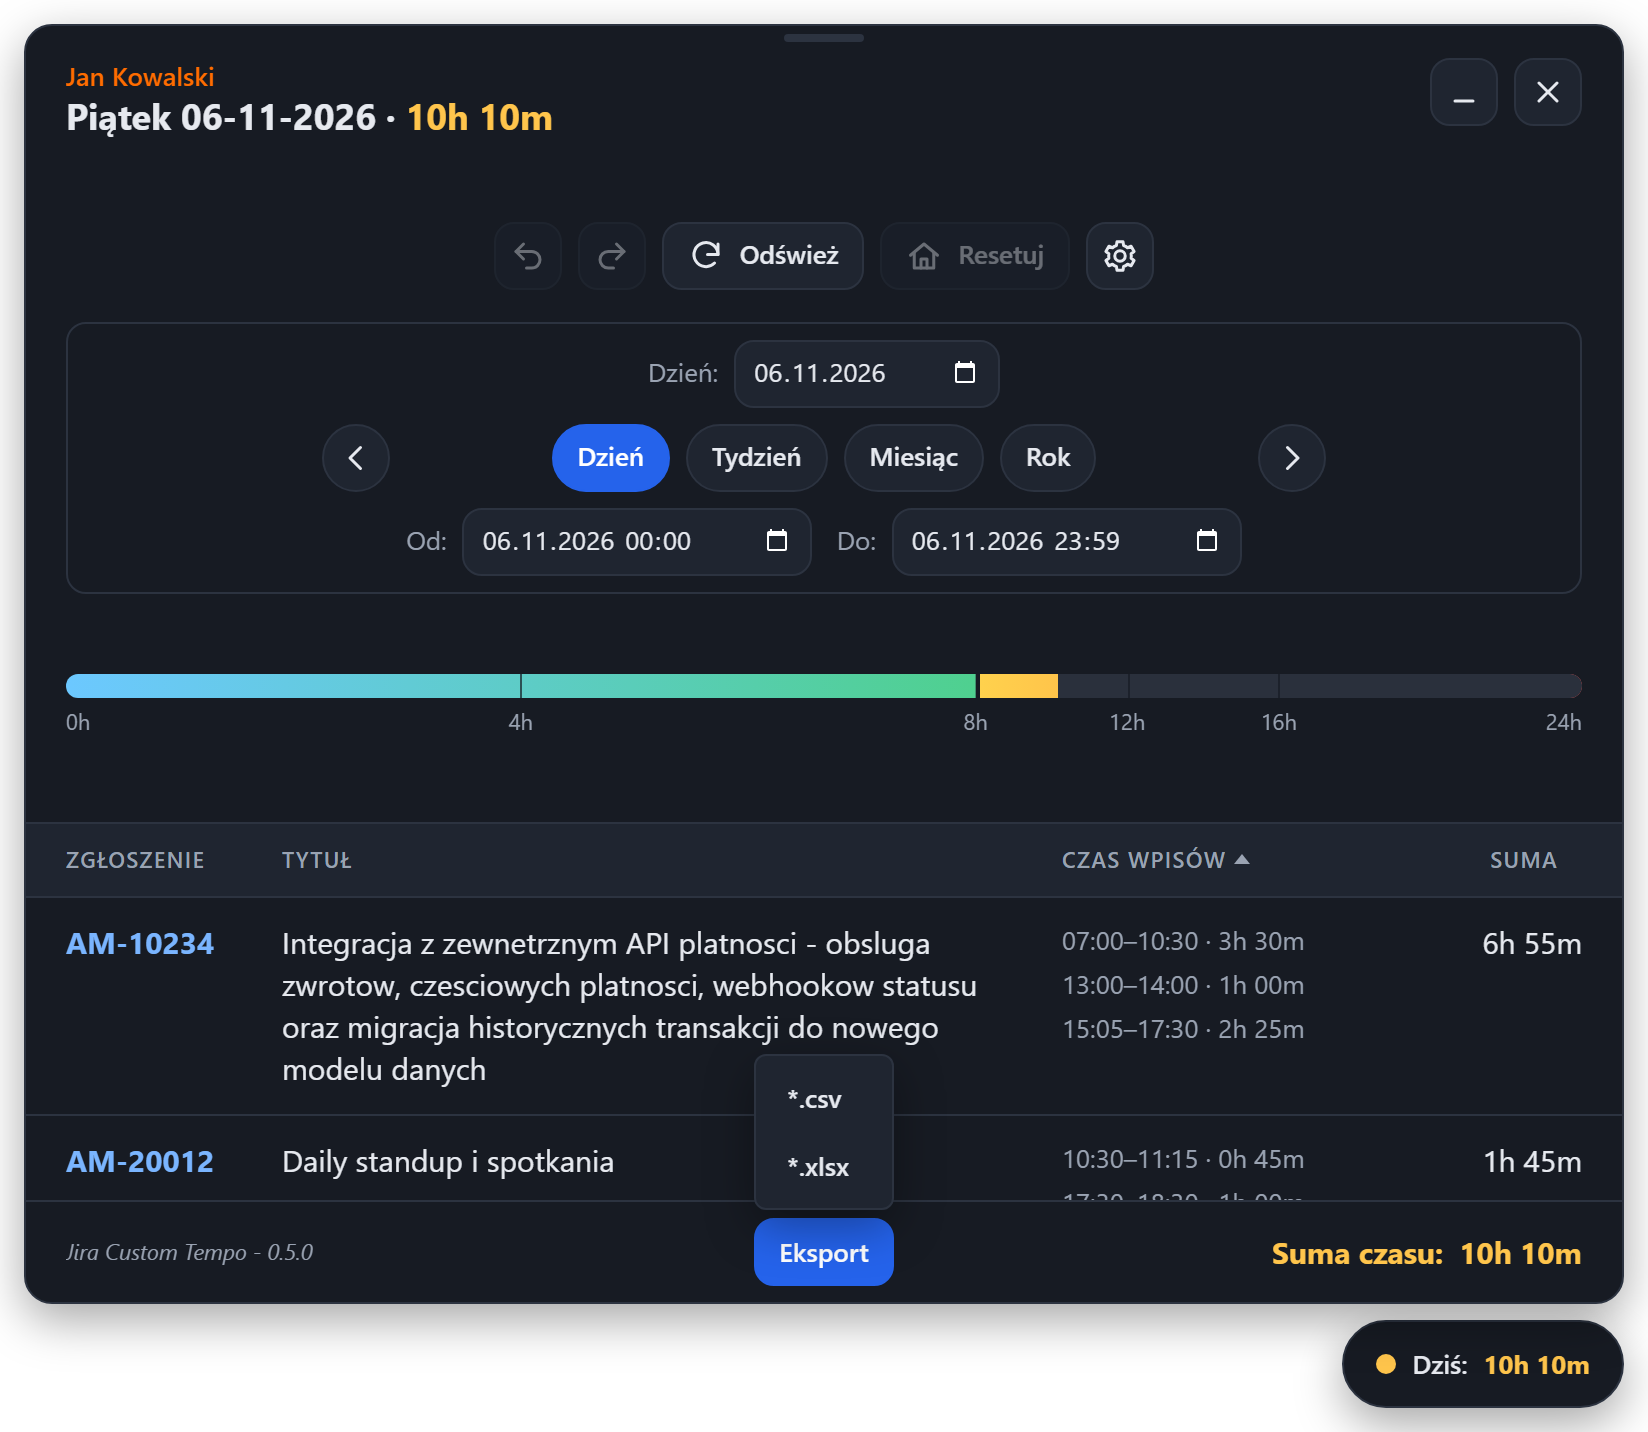
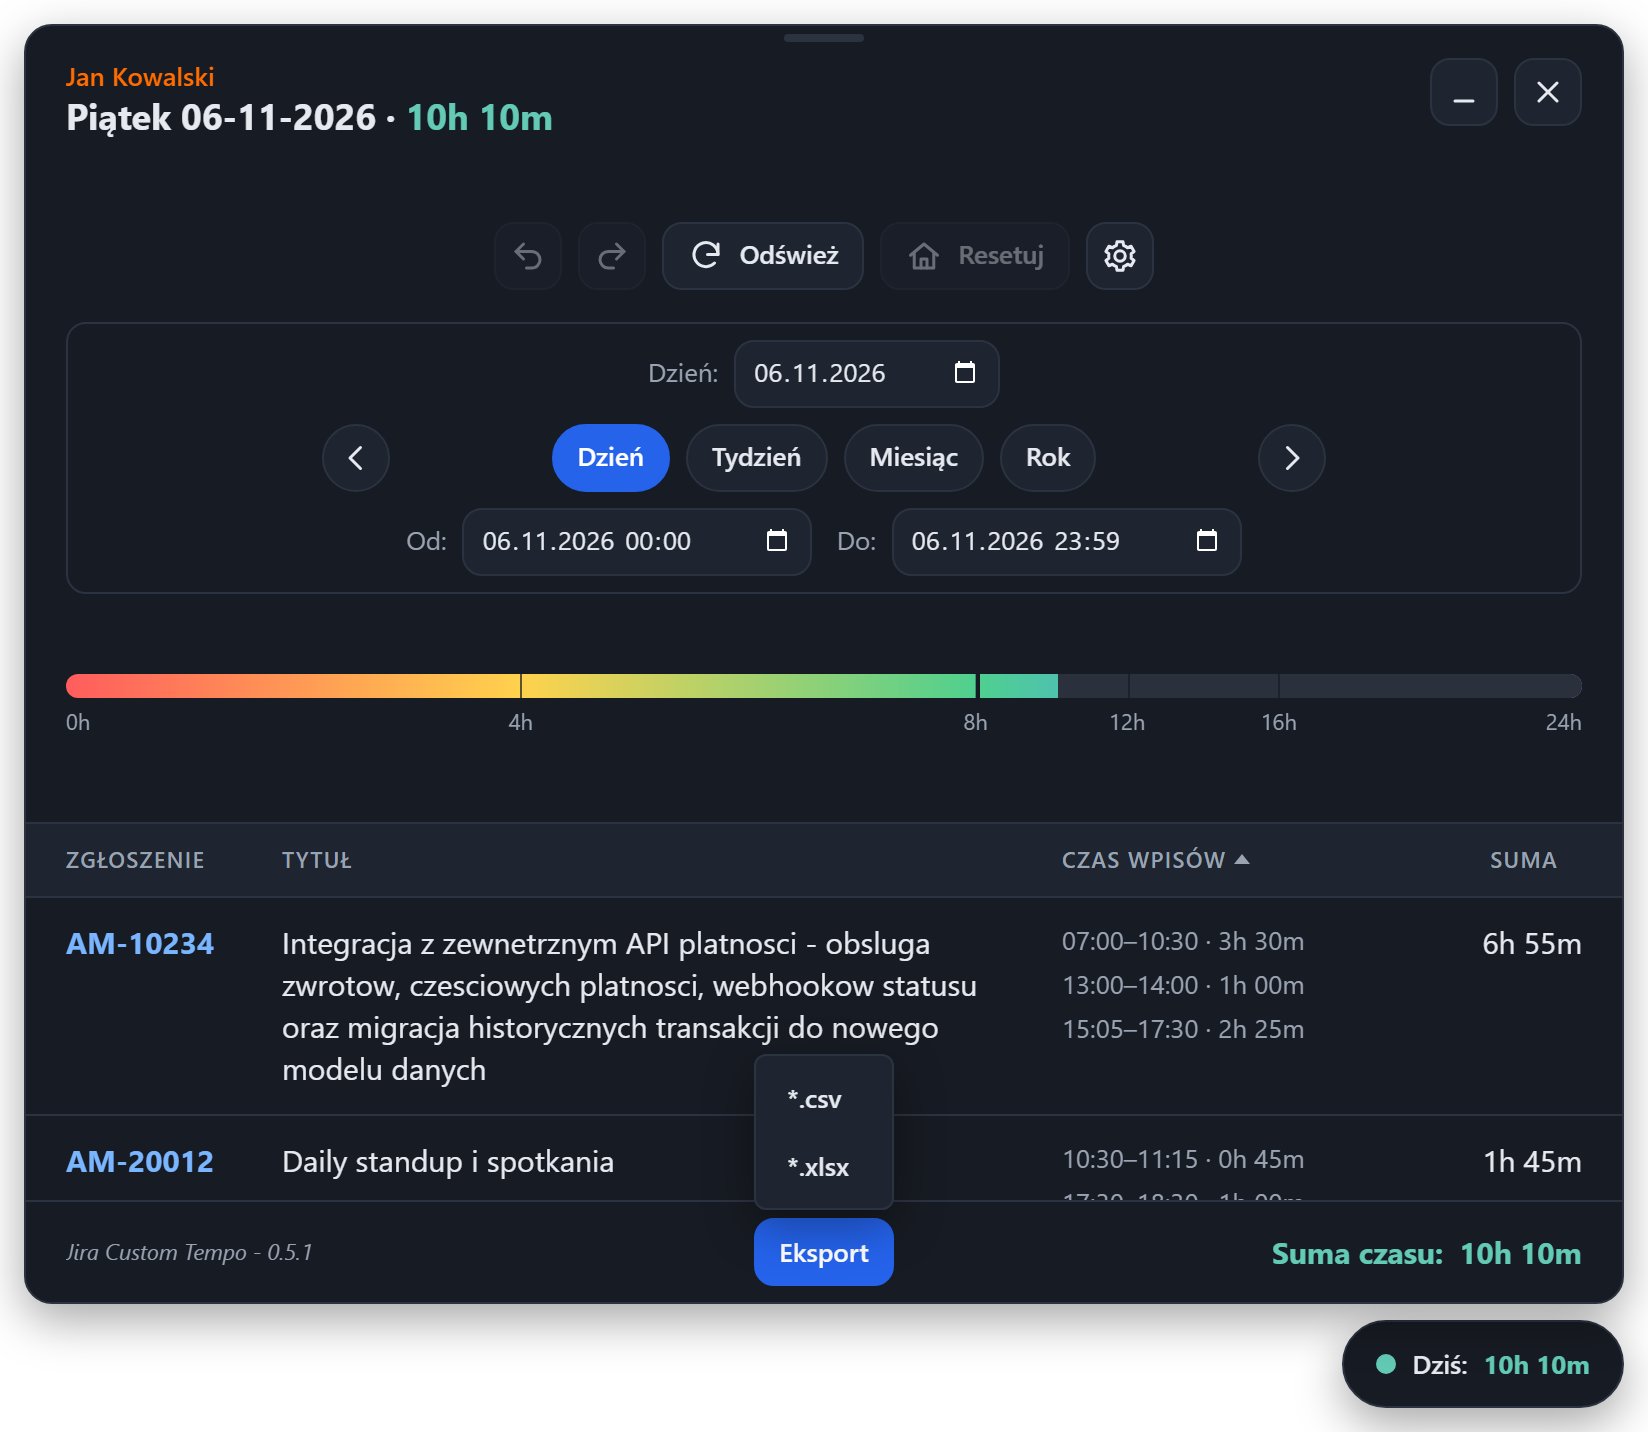
progress-colours

diff --git a/tests/unit/summary.test.ts b/tests/unit/summary.test.ts
@@ -1,3 +1,5 @@
+import { readFileSync } from 'node:fs';
+import { resolve } from 'node:path';
 import { describe, expect, it } from 'vite-plus/test';
 import { presetPeriod } from '../../src/domain/period';
 import { summarise } from '../../src/domain/summary';
@@ -27,27 +29,51 @@ describe('summarise for a single day', () => {
     expect(summary.colour).toBeNull();
   });
 
-  it('mixes light blue into light green up to the norm', () => {
-    expect(summarise(rows(4 * H), today).colour).toEqual({ from: 'blue', to: 'green', ratio: 0.5 });
+  it('runs red, yellow, green up to the norm', () => {
+    expect(summarise(rows(60), today).colour).toMatchObject({ from: 'red', to: 'yellow' });
+    expect(summarise(rows(2 * H), today).colour).toEqual({ from: 'red', to: 'yellow', ratio: 0.5 });
+    expect(summarise(rows(4 * H), today).colour).toEqual({ from: 'red', to: 'yellow', ratio: 1 });
+    expect(summarise(rows(6 * H), today).colour).toEqual({ from: 'yellow', to: 'green', ratio: 0.5 });
     const atNorm = summarise(rows(8 * H), today);
-    expect(atNorm.colour).toEqual({ from: 'blue', to: 'green', ratio: 1 });
+    expect(atNorm.colour).toEqual({ from: 'yellow', to: 'green', ratio: 1 });
     expect(atNorm.normReached).toBe(true);
     expect(atNorm.fillFraction).toBeCloseTo(1 / 3);
   });
 
-  it('runs yellow, orange, red above the norm', () => {
-    expect(summarise(rows(8 * H + 60), today).colour).toMatchObject({ from: 'yellow', to: 'orange' });
-    expect(summarise(rows(12 * H), today).colour).toEqual({ from: 'yellow', to: 'orange', ratio: 0.5 });
-    expect(summarise(rows(16 * H), today).colour).toEqual({ from: 'yellow', to: 'orange', ratio: 1 });
-    expect(summarise(rows(20 * H), today).colour).toEqual({ from: 'orange', to: 'red', ratio: 0.5 });
-    expect(summarise(rows(24 * H), today).colour).toEqual({ from: 'orange', to: 'red', ratio: 1 });
+  it('runs on from green through blue to violet above the norm', () => {
+    expect(summarise(rows(8 * H + 60), today).colour).toMatchObject({ from: 'green', to: 'blue' });
+    expect(summarise(rows(12 * H), today).colour).toEqual({ from: 'green', to: 'blue', ratio: 0.5 });
+    expect(summarise(rows(16 * H), today).colour).toEqual({ from: 'green', to: 'blue', ratio: 1 });
+    expect(summarise(rows(20 * H), today).colour).toEqual({ from: 'blue', to: 'violet', ratio: 0.5 });
+    expect(summarise(rows(24 * H), today).colour).toEqual({ from: 'blue', to: 'violet', ratio: 1 });
   });
 
-  it('stays red with a full bar above 24 hours', () => {
+  it('stays violet with a full bar above 24 hours', () => {
     const summary = summarise(rows(26 * H), today);
-    expect(summary.colour).toEqual({ from: 'red', to: 'red', ratio: 1 });
+    expect(summary.colour).toEqual({ from: 'violet', to: 'violet', ratio: 1 });
     expect(summary.fillFraction).toBe(1);
     expect(summary.totalSeconds).toBe(26 * H);
+  });
+});
+
+describe('the progress bar and the totals', () => {
+  // The bar is painted by the stylesheet; its stops must be the tones of colourFor (FR-018).
+  const styles = readFileSync(resolve(__dirname, '..', '..', 'src', 'styles', 'app.scss'), 'utf8');
+  const gradients = [...styles.matchAll(/linear-gradient\(90deg, ([^)]*\)[^)]*\)[^)]*\))\)/g)].map((match) =>
+    [...(match[1] ?? '').matchAll(/--wt-progress-(\w+)/g)].map((stop) => stop[1]),
+  );
+
+  it('share the stops: red, yellow (4h), green (8h), then blue (16h) and violet (24h)', () => {
+    expect(gradients).toContainEqual(['red', 'yellow', 'green']);
+    expect(gradients).toContainEqual(['green', 'blue', 'violet']);
+    for (const [hours, tone] of [
+      [4, 'yellow'],
+      [8, 'green'],
+      [16, 'blue'],
+      [24, 'violet'],
+    ] as const) {
+      expect(summarise(rows(hours * H), today).colour, `${hours}h`).toMatchObject({ to: tone, ratio: 1 });
+    }
   });
 });
 

diff --git a/tests/unit/export-palette.test.ts b/tests/unit/export-palette.test.ts
@@ -43,7 +43,7 @@ const summary = (totalSeconds: number, colour: PeriodSummary['colour']): PeriodS
   colour,
 });
 
-const TONES: ProgressTone[] = ['blue', 'green', 'yellow', 'orange', 'red'];
+const TONES: ProgressTone[] = ['red', 'yellow', 'green', 'blue', 'violet'];
 
 describe('palette of the sheet', () => {
   it('equals the tokens of the light appearance', () => {
@@ -73,10 +73,10 @@ describe('palette of the sheet', () => {
     expect(totalColour(summary(0, null))).toBe(PALETTE.muted);
     // A period longer than one day.
     expect(totalColour(summary(3600, null))).toBe(PALETTE.text);
-    expect(totalColour(summary(60, { from: 'blue', to: 'green', ratio: 0 }))).toBe(PALETTE.tones.blue);
-    expect(totalColour(summary(8 * 3600, { from: 'blue', to: 'green', ratio: 1 }))).toBe(PALETTE.tones.green);
-    expect(totalColour(summary(12 * 3600, { from: 'yellow', to: 'orange', ratio: 0.5 }))).toBe(
-      mix(PALETTE.tones.yellow, PALETTE.tones.orange, 0.5),
+    expect(totalColour(summary(60, { from: 'red', to: 'yellow', ratio: 0 }))).toBe(PALETTE.tones.red);
+    expect(totalColour(summary(8 * 3600, { from: 'yellow', to: 'green', ratio: 1 }))).toBe(PALETTE.tones.green);
+    expect(totalColour(summary(12 * 3600, { from: 'green', to: 'blue', ratio: 0.5 }))).toBe(
+      mix(PALETTE.tones.green, PALETTE.tones.blue, 0.5),
     );
   });
 
@@ -92,11 +92,12 @@ describe('palette of the sheet', () => {
       expect(contrast(colour, white), colour).toBeGreaterThanOrEqual(4.5);
     }
     expect(contrast(PALETTE.headerText, PALETTE.headerFill)).toBeGreaterThanOrEqual(4.5);
-    // The mixes a total can take: blue to green, yellow to orange, orange to red.
+    // The mixes a total can take: red to yellow, yellow to green, green to blue, blue to violet.
     for (const [from, to] of [
-      ['blue', 'green'],
-      ['yellow', 'orange'],
-      ['orange', 'red'],
+      ['red', 'yellow'],
+      ['yellow', 'green'],
+      ['green', 'blue'],
+      ['blue', 'violet'],
     ] as const) {
       for (const ratio of [0, 0.25, 0.5, 0.75, 1]) {
         const colour = mix(PALETTE.tones[from], PALETTE.tones[to], ratio);

diff --git a/tests/ui/app.test.ts b/tests/ui/app.test.ts
@@ -92,8 +92,8 @@ describe('launcher', () => {
   it("shows today's total in the colour of the progress bar, with the panel closed", async () => {
     const { app } = await mount(new FakeGateway(todayRoutes()));
     expect(launcher(app.root).textContent).toBe('Dziś: 10h 10m');
-    expect(launcher(app.root).style.getPropertyValue('--wt-total-from')).toBe('var(--wt-tone-yellow)');
-    expect(launcher(app.root).style.getPropertyValue('--wt-total-to')).toBe('var(--wt-tone-orange)');
+    expect(launcher(app.root).style.getPropertyValue('--wt-total-from')).toBe('var(--wt-tone-green)');
+    expect(launcher(app.root).style.getPropertyValue('--wt-total-to')).toBe('var(--wt-tone-blue)');
     expect(panel(app.root).hidden).toBe(true);
     expect(app.isOpen()).toBe(false);
     expect(launcher(app.root).getAttribute('aria-expanded')).toBe('false');
@@ -180,7 +180,7 @@ describe('opening the panel', () => {
   it('gives both totals the colour of the bar', async () => {
     const { root } = await mountOpen(new FakeGateway(todayRoutes()));
     const [title, footer] = [...root.querySelectorAll<HTMLElement>('.wt-panel .wt-total')];
-    expect(title?.style.getPropertyValue('--wt-total-from')).toBe('var(--wt-tone-yellow)');
+    expect(title?.style.getPropertyValue('--wt-total-from')).toBe('var(--wt-tone-green)');
     expect(footer?.style.cssText).toBe(title?.style.cssText);
     expect(root.querySelector('.wt-progress__caption')).toBeNull();
     expect(root.querySelector('.wt-subtitle')).toBeNull();
@@ -565,7 +565,7 @@ describe('changing the period', () => {
     expect(text(root, '.wt-progress__tip-period')).toBe('Piątek 06-11-2026');
     expect(text(root, '.wt-progress__tip-total')).toBe('Suma czasu: 10h 10m');
     const total = root.querySelector<HTMLElement>('.wt-progress__tip-total') as HTMLElement;
-    expect(total.style.getPropertyValue('--wt-total-from')).toBe('var(--wt-tone-yellow)');
+    expect(total.style.getPropertyValue('--wt-total-from')).toBe('var(--wt-tone-green)');
   });
 
   it('ignores the late answer of a period the user has already left', async () => {

diff --git a/tests/unit/export-xlsx.test.ts b/tests/unit/export-xlsx.test.ts
@@ -32,7 +32,7 @@ function report(rows: ReportRow[] = ROWS, extra: Partial<Report> = {}): Report {
     period: 'Piątek 13-11-2026',
     total: '6h 55m',
     totalMinutes: 415,
-    totalColour: mix(PALETTE.tones.blue, PALETTE.tones.green, 415 / 480),
+    totalColour: mix(PALETTE.tones.yellow, PALETTE.tones.green, 350 / 480),
     rows,
     fileBase: 'Jozef_Sliwinski_13-11-2026_tempo_report',
     ...extra,
@@ -254,7 +254,7 @@ describe('xlsx: the cells', () => {
 describe('xlsx: the look', () => {
   it('uses one font, with the sizes and colours of the three title rows', () => {
     const { look } = open();
-    const total = mix(PALETTE.tones.blue, PALETTE.tones.green, 415 / 480);
+    const total = mix(PALETTE.tones.yellow, PALETTE.tones.green, 350 / 480);
     expect(look('A1')).toMatchObject({ fontName: 'Calibri', size: 14, bold: true, colour: ARGB(PALETTE.name) });
     expect(look('A2')).toMatchObject({ fontName: 'Calibri', size: 12, bold: true, colour: ARGB(PALETTE.text) });
     expect(look('A3')).toMatchObject({ fontName: 'Calibri', size: 12, bold: true, colour: ARGB(total) });
@@ -293,7 +293,7 @@ describe('xlsx: the look', () => {
 
   it('gives the total row bold text in the colour of the total, at the right', () => {
     const { look } = open();
-    const total = ARGB(mix(PALETTE.tones.blue, PALETTE.tones.green, 415 / 480));
+    const total = ARGB(mix(PALETTE.tones.yellow, PALETTE.tones.green, 350 / 480));
     expect(look('C9')).toMatchObject({ bold: true, colour: total, horizontal: 'right' });
     expect(look('D9')).toMatchObject({ bold: true, colour: total, horizontal: 'right' });
     expect(open(report(ROWS, { totalColour: PALETTE.text })).look('D9').colour).toBe(ARGB(PALETTE.text));

diff --git a/src/domain/summary.ts b/src/domain/summary.ts
@@ -5,7 +5,7 @@ import { totalOf, type TicketRow } from './worklog';
 export const NORM_SECONDS = 8 * 3600;
 export const MAX_SECONDS = 24 * 3600;
 
-export type ProgressTone = 'blue' | 'green' | 'yellow' | 'orange' | 'red';
+export type ProgressTone = 'red' | 'yellow' | 'green' | 'blue' | 'violet';
 
 /**
  * A colour described as a mix of two named tones, so that the stylesheet (and the
@@ -30,14 +30,19 @@ export interface PeriodSummary {
   colour: ToneMix | null;
 }
 
-/** Light blue to light green up to the norm, then yellow through orange to red (FR-016, FR-017). */
+/**
+ * Red through yellow (at 4h) to green up to the norm, then green through blue (at 16h) to
+ * violet at 24h, and violet above (FR-016, FR-017). The stops match the progress bar's
+ * gradients, so a total has the colour of the bar at its value (FR-018).
+ */
 export function colourFor(totalSeconds: number): ToneMix | null {
   const r = totalSeconds / NORM_SECONDS;
   if (r <= 0) return null;
-  if (r <= 1) return { from: 'blue', to: 'green', ratio: r };
-  if (r <= 2) return { from: 'yellow', to: 'orange', ratio: r - 1 };
-  if (r <= 3) return { from: 'orange', to: 'red', ratio: r - 2 };
-  return { from: 'red', to: 'red', ratio: 1 };
+  if (r <= 0.5) return { from: 'red', to: 'yellow', ratio: r * 2 };
+  if (r <= 1) return { from: 'yellow', to: 'green', ratio: r * 2 - 1 };
+  if (r <= 2) return { from: 'green', to: 'blue', ratio: r - 1 };
+  if (r <= 3) return { from: 'blue', to: 'violet', ratio: r - 2 };
+  return { from: 'violet', to: 'violet', ratio: 1 };
 }
 
 export function summarise(rows: TicketRow[], period: Period): PeriodSummary {

diff --git a/src/styles/_tokens.scss b/src/styles/_tokens.scss
@@ -81,19 +81,19 @@
   --wt-switch-border: #4c4c50;
   --wt-switch-icon: #8a8a8f;
 
-  // Bar fills.
-  --wt-progress-blue: #6cc8ff;
-  --wt-progress-green: #4fd08f;
-  --wt-progress-yellow: #ffd24d;
-  --wt-progress-orange: #ff9f43;
+  // Bar fills: red, yellow, green up to the norm; green, blue, violet beyond (FR-016, FR-017).
   --wt-progress-red: #ff5d5d;
+  --wt-progress-yellow: #ffd24d;
+  --wt-progress-green: #4fd08f;
+  --wt-progress-blue: #4d9bff;
+  --wt-progress-violet: #a974ff;
 
   // The same meaning as text: tuned for contrast against the surface (FR-048).
-  --wt-tone-blue: #6cc8ff;
-  --wt-tone-green: #5fd39a;
-  --wt-tone-yellow: #ffd24d;
-  --wt-tone-orange: #ffa24a;
   --wt-tone-red: #ff8078;
+  --wt-tone-yellow: #ffd24d;
+  --wt-tone-green: #5fd39a;
+  --wt-tone-blue: #6cb0ff;
+  --wt-tone-violet: #c49bff;
 }
 
 .wt-root[data-theme='light'] {
@@ -120,15 +120,15 @@
   --wt-switch-border: #d8d6e0;
   --wt-switch-icon: #8f8f99;
 
-  --wt-progress-blue: #7dd3fc;
-  --wt-progress-green: #34c98a;
-  --wt-progress-yellow: #fbbf24;
-  --wt-progress-orange: #fb923c;
   --wt-progress-red: #ef4444;
+  --wt-progress-yellow: #fbbf24;
+  --wt-progress-green: #34c98a;
+  --wt-progress-blue: #3b82f6;
+  --wt-progress-violet: #8b5cf6;
 
-  --wt-tone-blue: #0a6199;
-  --wt-tone-green: #146c43;
-  --wt-tone-yellow: #7a5200;
-  --wt-tone-orange: #a34100;
   --wt-tone-red: #b3261e;
+  --wt-tone-yellow: #7a5200;
+  --wt-tone-green: #146c43;
+  --wt-tone-blue: #0b5cc0;
+  --wt-tone-violet: #6b35c4;
 }

diff --git a/tests/e2e/chart.spec.ts b/tests/e2e/chart.spec.ts
@@ -57,16 +57,15 @@ test('a bar has the colour of the progress bar for its value, and stands out und
   await expect(page.locator(bars)).toHaveCount(7);
   await page.mouse.move(0, 0);
 
-  // Friday, 10h 10m, is past the norm: the yellow of the bar, not its blue or green.
+  // Friday, 10h 10m, is past the norm: between the green and the blue of the bar, not red.
   const friday = page.locator(columns).nth(4);
   await expect(friday).toHaveAttribute('data-seconds', String(10 * 3600 + 10 * 60));
-  const [red, green, blue] = await paintedColour(friday.locator(bars), 'backgroundColor');
-  expect(red).toBeGreaterThan(200);
-  expect(green).toBeGreaterThan(150);
-  expect(blue).toBeLessThan(120);
-  // Thursday, half an hour, is at the blue end.
+  const [red = 0, green = 0, blue = 0] = await paintedColour(friday.locator(bars), 'backgroundColor');
+  expect(green).toBeGreaterThan(red);
+  expect(blue).toBeGreaterThan(red);
+  // Thursday, half an hour, is at the red end.
   const thursday = await paintedColour(page.locator(columns).nth(3).locator(bars), 'backgroundColor');
-  expect(thursday[2]).toBeGreaterThan(thursday[0] ?? 255);
+  expect(thursday[0]).toBeGreaterThan(thursday[2] ?? 255);
 
   const tip = page.locator('.wt-chart__tip');
   await expect(friday.locator(bars)).toHaveCSS('opacity', '0.75');

diff --git a/tests/e2e/progress.spec.ts b/tests/e2e/progress.spec.ts
@@ -31,7 +31,7 @@ for (const { scenario, total, fill } of cases) {
   });
 }
 
-test('the colour moves from blue-green towards red as the day gets longer', async ({ page }) => {
+test('the colour moves from yellow at 4h towards blue and violet as the day gets longer', async ({ page }) => {
   const colours: number[][] = [];
   for (const scenario of ['h4', 'h20']) {
     await openPanel(page, { scenario });
@@ -39,8 +39,9 @@ test('the colour moves from blue-green towards red as the day gets longer', asyn
     colours.push(await paintedColour(titleTotal(page)));
   }
   const [short = [], long = []] = colours;
-  // Four hours: more green and blue than red. Twenty hours: red dominates.
-  expect((short[1] ?? 0) + (short[2] ?? 0)).toBeGreaterThan((short[0] ?? 0) * 1.5);
-  expect(long[0] ?? 0).toBeGreaterThan(long[2] ?? 0);
-  expect(long[0] ?? 0).toBeGreaterThan(long[1] ?? 0);
+  // Four hours: yellow, much red and green, little blue. Twenty hours: blue dominates.
+  expect(short[0] ?? 0).toBeGreaterThan((short[2] ?? 0) * 2);
+  expect(short[1] ?? 0).toBeGreaterThan((short[2] ?? 0) * 2);
+  expect(long[2] ?? 0).toBeGreaterThan(long[0] ?? 0);
+  expect(long[2] ?? 0).toBeGreaterThan(long[1] ?? 0);
 });

diff --git a/src/styles/app.scss b/src/styles/app.scss
@@ -559,10 +559,12 @@ $narrow: 600px; // below this the table stacks and controls take the touch size
   border-radius: var(--wt-radius-pill);
   overflow: hidden;
   // Both gradients are painted at full size, so the colour at any point shows the value
-  // reached there: blue to green up to the norm (60% of the width), then yellow to red.
+  // reached there: red through yellow (4h) to green up to the norm (60% of the width), then
+  // green through blue (16h) to violet. The stops are those of colourFor in domain/summary.ts.
   background:
-    linear-gradient(90deg, var(--wt-progress-blue), var(--wt-progress-green)) left / 60% 100% no-repeat,
-    linear-gradient(90deg, var(--wt-progress-yellow), var(--wt-progress-orange), var(--wt-progress-red)) right / 40%
+    linear-gradient(90deg, var(--wt-progress-red), var(--wt-progress-yellow), var(--wt-progress-green)) left / 60% 100%
+      no-repeat,
+    linear-gradient(90deg, var(--wt-progress-green), var(--wt-progress-blue), var(--wt-progress-violet)) right / 40%
       100% no-repeat,
     var(--wt-track);
 }

diff --git a/tests/unit/chart.test.ts b/tests/unit/chart.test.ts
@@ -77,9 +77,9 @@ describe('the buckets of the chart', () => {
       'day',
     );
     expect(buckets.slice(0, 4).map((bucket) => bucket.colour)).toEqual([
-      { from: 'blue', to: 'green', ratio: 0.5 },
-      { from: 'blue', to: 'green', ratio: 1 },
-      { from: 'yellow', to: 'orange', ratio: 0.5 },
+      { from: 'red', to: 'yellow', ratio: 1 },
+      { from: 'yellow', to: 'green', ratio: 1 },
+      { from: 'green', to: 'blue', ratio: 0.5 },
       null,
     ]);
   });
@@ -89,7 +89,7 @@ describe('the buckets of the chart', () => {
     const buckets = buildChart(rows([day(2026, 11, 2), 480, 84 * H], [day(2026, 3, 9), 480, H]), year, TZ, 'month');
     expect(buckets).toHaveLength(12);
     expect(buckets[10]).toMatchObject({ from: day(2026, 11, 1), to: day(2026, 11, 30), seconds: 84 * H });
-    expect(buckets[10]?.colour).toEqual({ from: 'blue', to: 'green', ratio: 0.5 });
+    expect(buckets[10]?.colour).toEqual({ from: 'red', to: 'yellow', ratio: 1 });
     expect(buckets[2]?.seconds).toBe(H);
     expect(buckets[0]?.colour).toBeNull();
   });

diff --git a/tests/ui/table.test.ts b/tests/ui/table.test.ts
@@ -86,10 +86,10 @@ describe('table', () => {
     expect(root.querySelector('.wt-footer__label')?.textContent).toBe('Suma czasu:');
     expect(root.querySelector('.wt-footer__value')?.textContent).toBe('10h 10m');
     const total = root.querySelector<HTMLElement>('.wt-footer__value') as HTMLElement;
-    expect(total.style.getPropertyValue('--wt-total-from')).toBe('var(--wt-tone-yellow)');
+    expect(total.style.getPropertyValue('--wt-total-from')).toBe('var(--wt-tone-green)');
     // The label has the colour of the value.
     const label = root.querySelector<HTMLElement>('.wt-footer__label') as HTMLElement;
-    expect(label.style.getPropertyValue('--wt-total-from')).toBe('var(--wt-tone-yellow)');
+    expect(label.style.getPropertyValue('--wt-total-from')).toBe('var(--wt-tone-green)');
     expect(label.getAttribute('data-tone')).toBe(total.getAttribute('data-tone'));
   });
 

diff --git a/tests/ui/chart.test.ts b/tests/ui/chart.test.ts
@@ -63,9 +63,9 @@ describe('bar chart', () => {
     const { bars } = build();
     const colour = (index: number) =>
       ['from', 'to', 'pct'].map((name) => bars()[index]?.style.getPropertyValue(`--wt-bar-${name}`));
-    expect(colour(0)).toEqual(['var(--wt-progress-blue)', 'var(--wt-progress-green)', '100%']);
-    expect(colour(1)).toEqual(['var(--wt-progress-blue)', 'var(--wt-progress-green)', '50%']);
-    expect(colour(4)).toEqual(['var(--wt-progress-yellow)', 'var(--wt-progress-orange)', '50%']);
+    expect(colour(0)).toEqual(['var(--wt-progress-yellow)', 'var(--wt-progress-green)', '100%']);
+    expect(colour(1)).toEqual(['var(--wt-progress-red)', 'var(--wt-progress-yellow)', '100%']);
+    expect(colour(4)).toEqual(['var(--wt-progress-green)', 'var(--wt-progress-blue)', '50%']);
     expect(colour(2)).toEqual(['', '', '']);
   });
 
